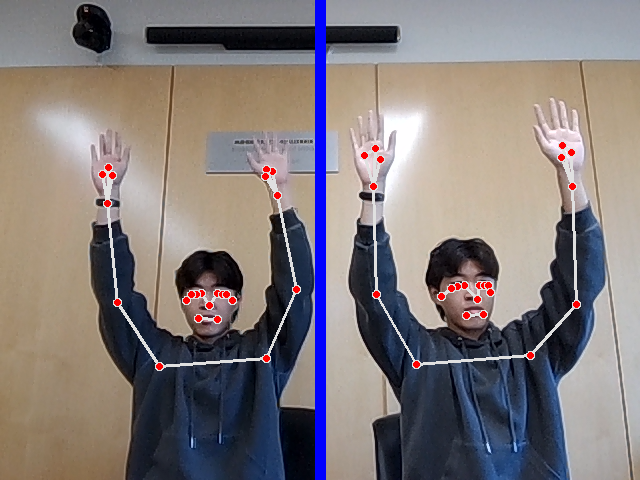
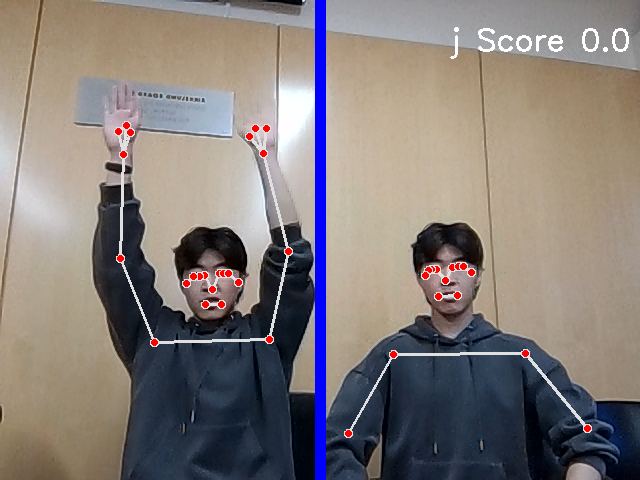
test

diff --git a/src/pose_matching.py b/src/pose_matching.py
@@ -3,7 +3,7 @@ from scipy.spatial.distance import cosine
 
 # Chosen joints
 
-SELECTED_JOINTS = set([
+SELECTED_JOINTS = [
     0,       # nose
     11, 12,  # shoulders
     13, 14,  # elbows
@@ -13,9 +13,7 @@ SELECTED_JOINTS = set([
     28, 29,  # ankles
     29, 30,  # heels
     31, 32,  # feet
-])
-
-CONFIDENCE_THRESHOLD = 0.8
+]
 
 def calculate_similarity(game_state, should_log=False):
     joints1, joints2 = game_state.player_1.saved_joints, game_state.player_2.saved_joints
@@ -56,7 +54,7 @@ def calculate_similarity(game_state, should_log=False):
     def find_center(joints):
         l_shoulder, r_shoulder = joints[11], joints[12]
 
-        if l_shoulder[3] < CONFIDENCE_THRESHOLD or r_shoulder[3] < CONFIDENCE_THRESHOLD:
+        if l_shoulder[3] < 0.85 or r_shoulder[3] < 0.85:
             raise ValueError("wat")
         
         center_x, center_y = (l_shoulder[0] + r_shoulder[0]) / 2, (l_shoulder[1] + r_shoulder[1]) / 2
@@ -72,7 +70,7 @@ def calculate_similarity(game_state, should_log=False):
 
     valid_indices = [
         i for i in SELECTED_JOINTS
-        if joints1[i][3] > CONFIDENCE_THRESHOLD and joints2[i][3] > CONFIDENCE_THRESHOLD
+        if joints1[i][3] > 0.85 and joints2[i][3] > 0.85
     ]
 
     if not valid_indices:
@@ -81,17 +79,21 @@ def calculate_similarity(game_state, should_log=False):
     vec1 = np.array([joints1[i][:2] for i in valid_indices])
     vec2 = np.array([(joints2[i][0] - dx, joints2[i][1]) for i in valid_indices])
 
+    distances = np.linalg.norm(vec1 - vec2, axis=1)
+    mean_distance = np.mean(distances)
+    d = mean_distance
+    d0 = 0.22
+    k = 22
+    score = 100 / (1 + np.exp(k * (d - d0)))
+
     # Compute cosine distance
     # distance = cosine(vec1, vec2)
-    similarities = [1 - cosine(v1, v2) for v1, v2 in zip(vec1, vec2)]
-    mean_similarity = np.mean(similarities)
-    score = max(0, 100 * (mean_similarity ** 10)) # max(0, 100 * mean_similarity)
+    # similarities = [1 - cosine(v1, v2) for v1, v2 in zip(vec1, vec2)]
+    # mean_similarity = np.mean(similarities)
+    # score = max(0, 100 * (mean_similarity ** 10)) # max(0, 100 * mean_similarity)
 
     if not should_log:
         return score
-    
-    if len(valid_indices) < 5:
-        score -= 50
 
     with open(f"scores-{game_state.round}-{game_state.t}.txt", "w") as f:
         f.write(f"center1: {p1_center}\n")
@@ -109,90 +111,8 @@ def calculate_similarity(game_state, should_log=False):
         for x,y in vec2:
             f.write(f"({x}, {y})\n")
 
-        f.write(f"similarity: {mean_similarity}\n")
+        # f.write(f"similarity: {mean_similarity}\n")
+        f.write(f"dist: {mean_distance}\n")
         f.write(f"score: {score}\n")
     
     return score
-
-
-# import numpy as np
-
-# SELECTED_JOINTS = set([
-#     0,       # nose
-#     11, 12,  # shoulders
-#     13, 14,  # elbows
-#     15, 16,  # wrists
-#     23, 24,  # hips
-#     25, 26,  # knees
-#     28, 29,  # ankles
-#     29, 30,  # heels
-#     31, 32,  # feet
-# ])
-
-# def calculate_similarity(joints1, joints2):
-#     joints1 = [j for j in joints1]
-#     joints1 = [j for j in joints2]
-
-    
-
-# def flatten_joints(joints, joint_keys):
-#     flattened = []
-#     mask = []
-
-#     # Use shoulders as the center
-#     left_shoulder = joints.get("pose_11")
-#     right_shoulder = joints.get("pose_12")
-
-#     if left_shoulder and right_shoulder:
-#         center_x = (left_shoulder['x'] + right_shoulder['x']) / 2
-#         center_y = (left_shoulder['y'] + right_shoulder['y']) / 2
-#     else:
-#         center_x, center_y = 0, 0
-
-#     for key in sorted(joint_keys):
-#         joint = joints.get(key)
-#         if joint is None:
-#             flattened.extend([0, 0])
-#             mask.append(0)
-#         else:
-#             shifted_x = joint['x'] - center_x
-#             shifted_y = joint['y'] - center_y
-#             flattened.extend([shifted_x, shifted_y])
-#             mask.append(1)
-
-#     return np.array(flattened, dtype=np.float32), np.array(mask, dtype=np.float32)
-
-# def cosine_distance(joints1, joints2):
-#     joint_keys = set(joints1.keys()).intersection(joints2.keys())
-#     if not joint_keys:
-#         print("1")
-#         return 1.0  # No common joints
-
-#     pose1, mask1 = flatten_joints(joints1, joint_keys)
-#     pose2, mask2 = flatten_joints(joints2, joint_keys)
-
-#     # Apply mask to both poses
-#     # Apply mask to both poses
-#     mask = mask1 * mask2
-#     if np.sum(mask) == 0:
-#         print("2")
-#         return 1.0  # No valid joints
-
-#     # Expand mask to match the shape of the flattened pose arrays
-#     expanded_mask = np.repeat(mask, 2)
-
-#     pose1 *= expanded_mask
-#     pose2 *= expanded_mask
-
-#     norm1 = np.linalg.norm(pose1)
-#     norm2 = np.linalg.norm(pose2)
-
-#     if norm1 == 0 or norm2 == 0:
-#         print("3")
-#         return 1.0  # Avoid division by zero
-
-#     cosine_sim = np.dot(pose1, pose2) / (norm1 * norm2)
-#     return 1 - cosine_sim
-
-# def distance_to_percentage(distance):
-#     return (1 - distance) * 100

diff --git a/src/main.py b/src/main.py
@@ -14,6 +14,7 @@ name_1 = input("Player 1 Name: ")
 name_2 = input("Player 2 Name: ")
 player_1 = Player(id=0, name=name_1)
 player_2 = Player(id=1, name=name_2)
+won = False
 
 game_state = DuelGameState(player_1=player_1, player_2=player_2)
 
@@ -46,7 +47,7 @@ def get_round_actions():
         ),
         TimedAction(
             pending_action=lambda: write_text(game_state, f"Accuracy = {print_score():.3f}", y=300, centered=True), # TODO change to actual accuracy
-            main_action=lambda: game_state.swap_players()
+            main_action=lambda: save_score_and_swap_players()
         ),
         TimedAction(
             pending_action=lambda: write_text(game_state, f"Now it's {game_state.curr_player.name}'s turn!", y=300, centered=True),
@@ -55,6 +56,11 @@ def get_round_actions():
     ]
   
 actions = get_round_actions()
+
+def save_score_and_swap_players():
+    print(print_score(), game_state.curr_player.name)
+    game_state.score[game_state.curr_player.id] += print_score()
+    game_state.swap_players()
 
 def print_score():
     similarity = calculate_similarity(game_state)
@@ -76,17 +82,17 @@ def save_results(player1, player2):
 
     player_1.screenshot = None
     player_2.screenshot = None
-    if game_state.score[0] and game_state.score[1]:
+    if game_state.score[0] != 0 and game_state.score[1] != 0:
+        print(game_state.score[0], game_state.score[1])
         if player1 is game_state.curr_player:
             game_state.score[0] += 1
         elif player2 is game_state.curr_player:
             game_state.score[1] += 1
-        game_state.score = [None, None]
 
 # Helper function to reset screenshots
 # TODO: Save pics from rounds somewhere to display in recap
 def reset_for_next_turn():
-    save_results()
+    save_results(game_state.player_1, game_state.player_2)
     if not game_state.is_game_ended():
         global actions
         actions = get_round_actions()
@@ -118,15 +124,19 @@ with initialize_landmarker() as landmarker:
         # display loading screen / ending screen
         if not game_state.started:
             write_text(game_state, f"Press 's' to start!", center_text_x(frame, "Press 's' to start!"), 150)
-        elif game_state.is_game_ended():
+        elif game_state.is_game_ended() and not won:
             game_state.curr_action = None
             winner = game_state.player_1 if game_state.score[0] > game_state.score[1] else game_state.player_2
             write_text(game_state, f"GAME OVER! {winner.name} WINS", y=50, centered=True) # TODO change to actual winner
+            print(winner.name)
+            won = True
+            game_state.score = [0, 0]
+
         else:
            color = (255, 0, 0) #BGR
            thickness = 9
            divider = cv2.line(game_state.last_frame, (w//2, 0), (w//2, h), color, thickness)
-           write_text(game_state, f"{game_state.curr_player.name} Score " + game_state.curr_player.score, y=50, centered=True) # TODO change to actual winner
+           write_text(game_state, f"{game_state.curr_player.name} Score " + str(game_state.curr_player.score), y=50, centered=True) # TODO change to actual winner
 
         if game_state.curr_action is None:
             pass

diff --git a/src/game.py b/src/game.py
@@ -23,7 +23,7 @@ class DuelGameState:
     # saved_frame = [defaultdict(dict), defaultdict(dict)]
     player_joints = None
     t = 1
-    score = [None, None]
+    score = [0,0]
 
     def __post_init__(self):
         self.lead_player = self.player_1
